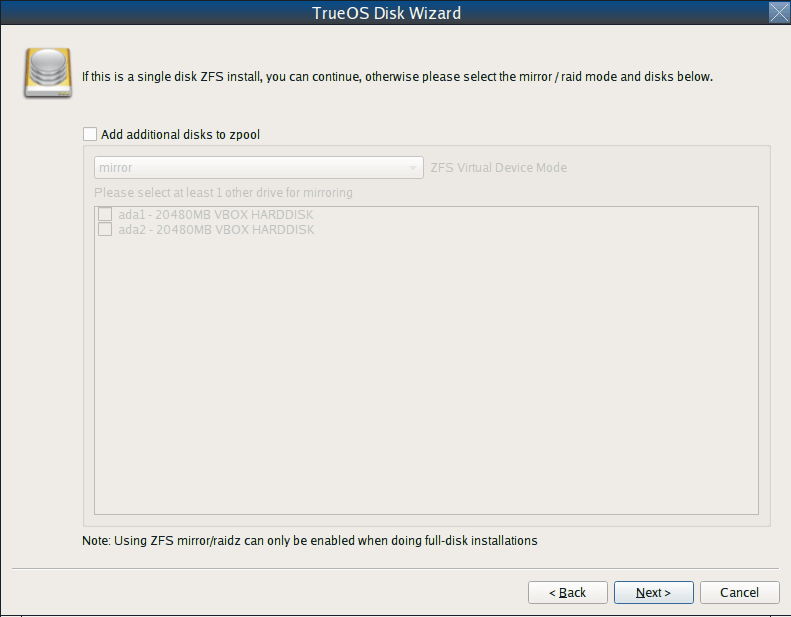
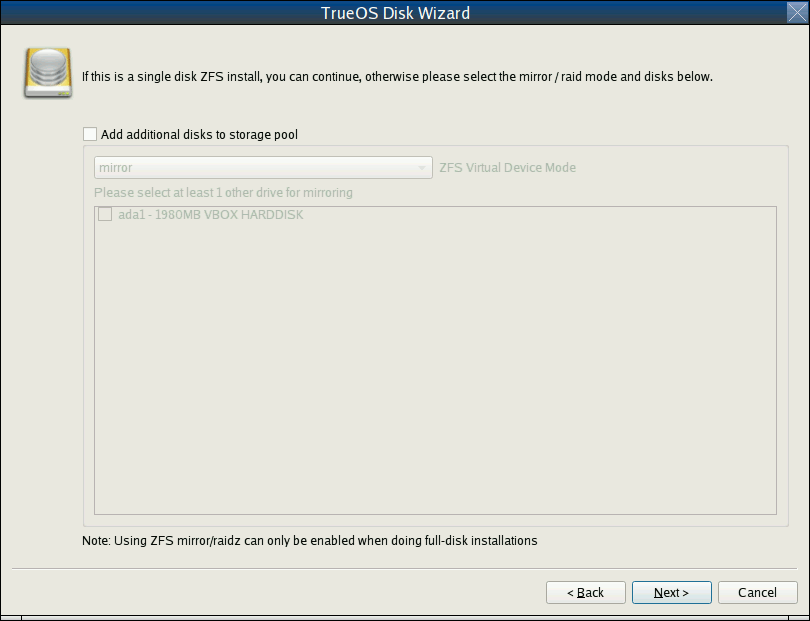
Screenshot tidy-up addressing trueos/trueos-docs#5 Document now mirrors what is displayed in the advanced setup

diff --git a/trueos-handbook/install.rst b/trueos-handbook/install.rst
@@ -463,7 +463,7 @@ the ZFS layout. The initial ZFS configuration screen is seen in
    : ZFS Configuration
 
 If the system contains multiple drives to be used to create a ZFS mirror
-or RAIDZ*, check :guilabel:`Add additional disks to zpool`, which will
+or RAIDZ*, check :guilabel:`Add additional disks to storage pool`, which will
 enable this screen. Any available disks will be listed in the box below
 the :guilabel:`ZFS Virtual Device Mode` drop-down menu. Select the
 desired level of redundancy from the :guilabel:`ZFS Virtual Device Mode`
